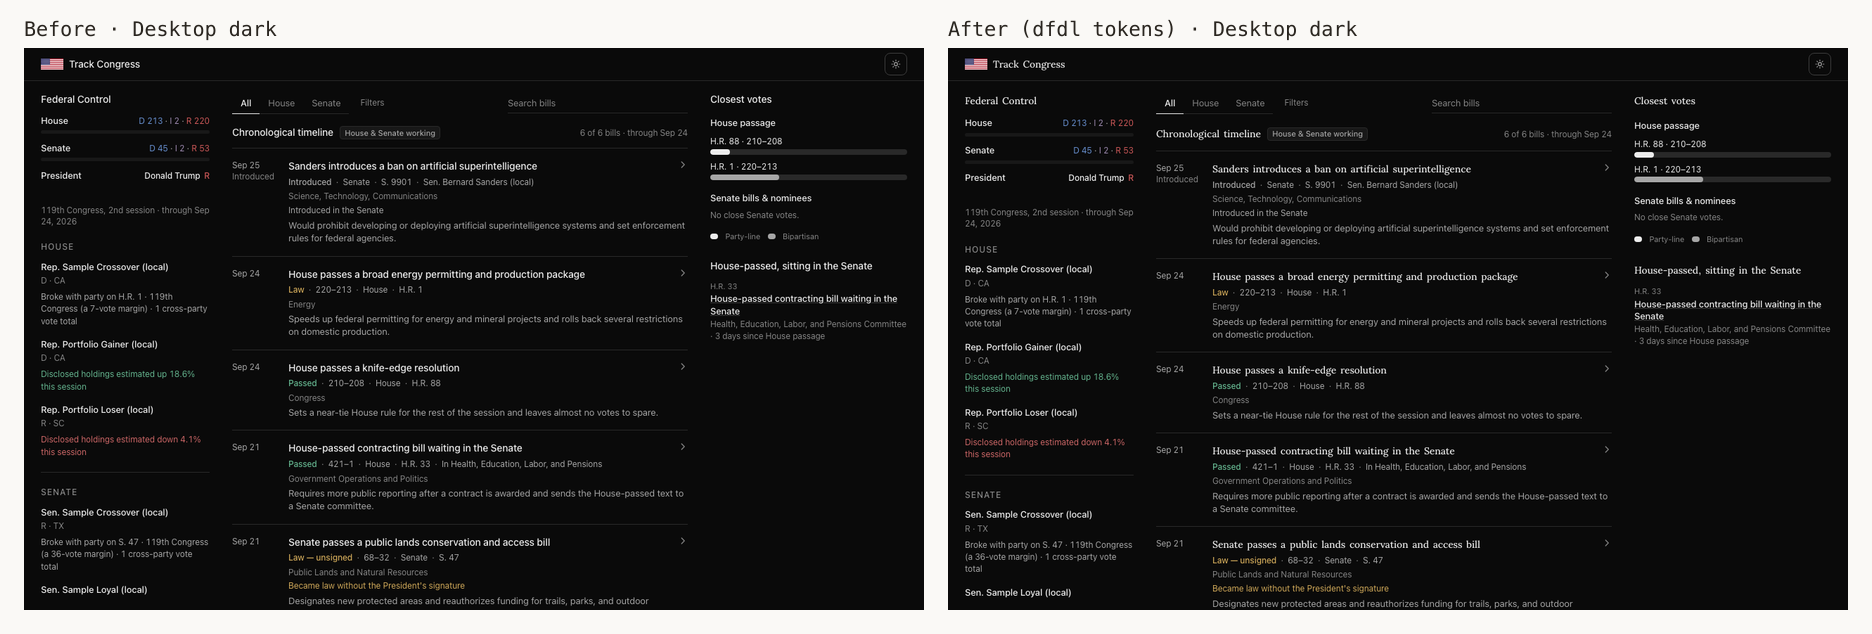
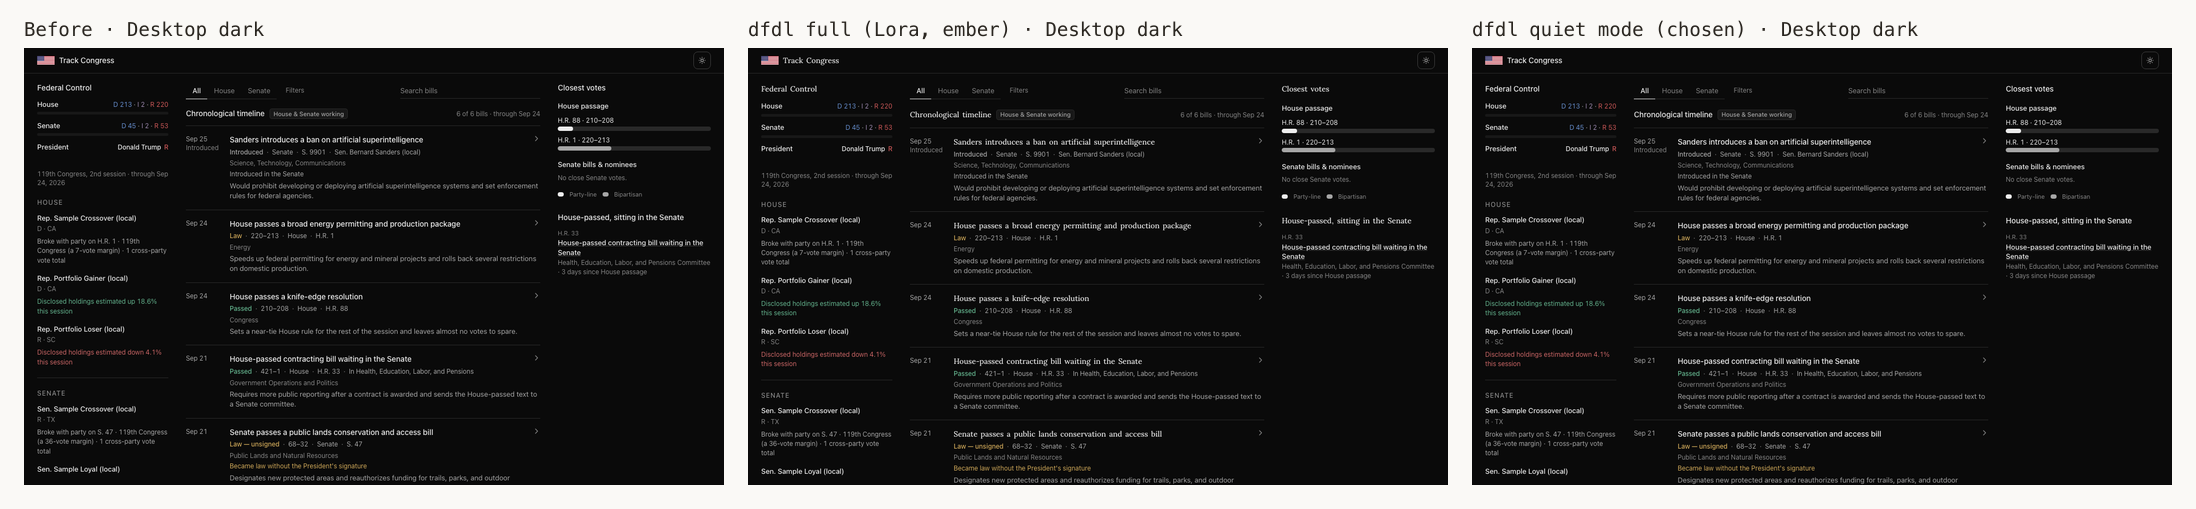
Quiet mode: data-quiet for data-dense products; trackcongress runs in it
Dylan ruled that trackcongress keeps sans headings and no accent. Rather
than exempting the site, dfdl gains a documented quiet mode: one root
attribute that sends headings to system sans and collapses the accent
roles into the neutrals, leaving neutrals, type roles, radius, elevation
and motion unchanged. Emitted in tokens.css and tokens.hsl.css. Boards
updated to before / full / quiet.

Generated with [Devin](https://devin.ai)

Changed region(s): [[0.0, 0.0295, 0.9915, 0.9725], [0.8675, 0.3831, 0.9915, 0.442]]

diff --git a/src/styles/tokens.css b/src/styles/tokens.css
@@ -373,4 +373,18 @@
   --accent-solid-hover: var(--indigo-dark-10);
   --accent-text: var(--indigo-dark-11);
 }
+
+/* ---- Quiet mode: data-quiet on the root for data-dense products. Headings go sans, the accent role collapses
+   into the neutrals so selection is carried by weight and hairlines. Same neutrals, type roles, radius, motion. ---- */
+[data-quiet] {
+  --font-heading-family: ui-sans-serif, system-ui, sans-serif;
+  --font-display-family: ui-sans-serif, system-ui, sans-serif;
+  --border-focus: var(--fg-strong);
+  --accent-bg: var(--bg-surface-active);
+  --accent-border: var(--border-strong);
+  --accent-solid: var(--fg-strong);
+  --accent-solid-hover: var(--fg);
+  --accent-text: var(--fg-strong);
+  --fg-on-accent: var(--bg-page);
+}
 /* ==== END GENERATED ==== */

diff --git a/src/styles/tokens.hsl.css b/src/styles/tokens.hsl.css
@@ -115,3 +115,14 @@
   --hsl-accent-solid-hover: 237 84.8% 80.8%;
   --hsl-accent-text: 235 99.9% 90.8%;
 }
+
+/* Quiet mode: data-quiet on the root. Accent roles collapse into the neutrals. */
+[data-quiet] {
+  --hsl-border-focus: var(--hsl-fg-strong);
+  --hsl-accent-bg: var(--hsl-bg-surface-active);
+  --hsl-accent-border: var(--hsl-border-strong);
+  --hsl-accent-solid: var(--hsl-fg-strong);
+  --hsl-accent-solid-hover: var(--hsl-fg);
+  --hsl-accent-text: var(--hsl-fg-strong);
+  --hsl-fg-on-accent: var(--hsl-bg-page);
+}

diff --git a/decisions.md b/decisions.md
@@ -22,6 +22,7 @@ Status is `approved`, `interim` (in use but not yet reviewed in its own lab), or
 | 2026-09-24 | Serif scope | Lora on every heading level and the display, including section headers inside app panels. Body and UI stay system sans | A: display only (previous); C: none | Dylan’s pick (`?f=b`). Serif headings carry the editorial identity into apps; with weight-led sizing the family change is what separates a heading from body | approved |
 | 2026-09-24 | Radius | Round: xs 8 · sm 10 · md 12 · lg 16 · xl 24 · full. Concentric nesting is the rule: outer = inner + padding. Controls at sm, fields at md, cards at lg, sheets at xl | A: previous 4/6/8/12/16; B: soft 6/8/10/14/20 | Dylan’s pick (`?r=c`). Fork’s existing 0.625rem family, so Fork needs no radius change; closest to ChatGPT and Linear | approved |
 | 2026-09-24 | Type roles as tokens | Type is set only through role utilities `text-display`, `text-title`, `text-heading`, `text-body`, `text-ui`, `text-caption`, each carrying size, leading and weight; families via `font-display` and `font-heading`. Ad hoc `text-sm leading-6` combinations are not allowed | per-property Tailwind classes | One place to change a role; the linter and `cn` know the vocabulary; Figma text styles map one to one | approved |
+| 2026-09-24 | Quiet mode | `<html data-quiet>` for data-dense products: headings and display go system sans, the accent roles collapse into the neutrals (selection carried by weight and hairlines, focus ring is `fg-strong`). Neutrals, type roles and sizes, radius, elevation and motion are unchanged. trackcongress runs in quiet mode | apply Lora headings and ember everywhere; or exempt trackcongress from dfdl entirely | Phase 5 trackcongress before/after. Serif headlines on a stacked feed read as two registers per row, and a fifth color on a page where green, red, amber and party colors already carry meaning asks the reader to learn what orange means. Tool surfaces are quieter than reading surfaces at Radix, Vercel and Linear too. Warm charcoal dark and the 15px heading role stand in quiet mode | approved |
 | 2026-09-15 | Grid | 8px minor, 24px major rhythm with overlay | none considered | Already proven on dylanfdl.com; overlay ported as is | approved |
 | 2026-09-15 | Type families | System sans body, Lora display and emphasis, Geist Mono code and metadata | Geist everywhere, Inter + serif | Continuity with dylanfdl.com; zero font cost for body | approved |
 | 2026-09-15 | Motion, interim | `cubic-bezier(0.23, 1, 0.32, 1)`, 150ms hover, `scale(0.97)` press | none yet | Emil's defaults so labs 1 and 2 do not feel broken before the motion lab | superseded by 2026-09-24 motion |

diff --git a/PLAN.md b/PLAN.md
@@ -62,6 +62,8 @@ Google `DESIGN.md`. Code Connect on Pro. Cloudflare deploy until asked. Copying 
 
 ## Log
 
+- 2026-09-24: Dylan ruled on the trackcongress conflicts: sans headings and no accent for data-dense products. Implemented as `data-quiet` on the root in both `tokens.css` and `tokens.hsl.css`; trackcongress worktree switched to quiet mode and re-captured. Boards now show before / dfdl full / dfdl quiet.
+
 - 2026-09-24: Phase 5, trackcongress before/after done in worktree `../congress-tracker-dfdl` through a mapping layer only. `tokens.hsl.css` added (HSL channel export for Tailwind v3 consumers, `scripts/color/export-legacy.mts`; color scripts refactored around `system.mts`). `qa:web` 8/8 with the tokens on. Boards in `research/trackcongress-5/`, before/after side by side in Figma (`dfdl — lab`, page “Phase 5 · trackcongress”). Four disagreements between the app’s design language and dfdl recorded for Dylan: second typeface, accent presence, dark surface lightness, headline size.
 
 - 2026-09-24: Scope change from Dylan: Phase 5 applies to trackcongress and dylanfdl only; Fork is deferred. Indigo remains an approved accent for when Fork or another product claims it; the Fork worktree stays as reference. Component scope follows the consumers. trackcongress stack recorded: React 18, Tailwind v3.4, Vite 7, `DESIGN_LANGUAGE.md`, `qa:web` across four viewports in both themes.

diff --git a/research/trackcongress-5/README.md b/research/trackcongress-5/README.md
@@ -14,7 +14,11 @@ Worktree `../congress-tracker-dfdl` on branch `agent/dfdl-tokens` from `origin/m
 - Boards: `desktop-light.png`, `desktop-light-expanded.png`, `desktop-dark.png`, `mobile.png`. Figma: `dfdl — lab` → page "Phase 5 · trackcongress", before and after side by side.
 - Radii already matched dfdl's round family (8 / 12 / 16 / pill). Motion curves were within a hair of dfdl's (`0.16, 1, 0.3, 1` vs `0.23, 1, 0.32, 1`); the sheet curve was identical.
 
-## Where the two systems disagree (for Dylan to rule on)
+## Ruling (2026-09-24)
+
+Dylan chose sans headings and no accent for trackcongress. Implemented as dfdl **quiet mode** (`<html data-quiet>`), which is now part of the token set. The boards show three columns: before, dfdl full, dfdl quiet (chosen). Warm charcoal dark and the 15px heading role stand.
+
+## Where the two systems disagreed
 
 1. **Typeface.** `DESIGN_LANGUAGE.md` forbids a second family. dfdl puts Lora on every heading. The after shows what that does to a dense feed: row headlines and section titles go serif at 15/550, everything else stays 13px sans.
 2. **Accent.** The app removed its orange on purpose; dfdl says one accent for primary action and selection. The app has almost nothing wired to `--twc-accent`, so adopting dfdl fully would mean deciding what the ember touches (active tab underline, selected chamber radio, send button, link underlines).

diff --git a/AGENTS.md b/AGENTS.md
@@ -36,6 +36,7 @@ Next 16 (App Router, Turbopack), React 19, Tailwind v4, Base UI via shadcn (`bas
 ## Rules
 
 - Use semantic utilities only: `bg-surface`, `text-fg-secondary`, `border-line`, `bg-accent-solid`, `elevation-raised`. The full list is at the top of `globals.css`. No Tailwind palette colors, no arbitrary values, no primitives in components. The linter enforces this.
+- Data-dense products (color already carries data, headlines stack in lists) run in quiet mode: `<html data-quiet>`. Headings go sans and the accent collapses into the neutrals; everything else is unchanged. trackcongress is the reference consumer.
 - The accent is chosen once per product: `<html data-accent="ember">` (default) or `indigo`. Never mix accents inside one product; add a third only with a decision in `decisions.md`.
 - `text-primary` is shadcn's name for the accent fill, kept only so stock components render. Body text is `text-fg`.
 - Source tokens in `tokens.css` (`--bg-*`, `--fg-*`, `--border-*`, `--rounded-*`, `--motion-*`, `--elevation-*`) never share a name with a Tailwind theme key (`--color-*`, `--radius-*`, `--ease-*`, `--shadow-*`). A shared name compiles to a self-referential variable; check compiled CSS, not the source, when in doubt.
